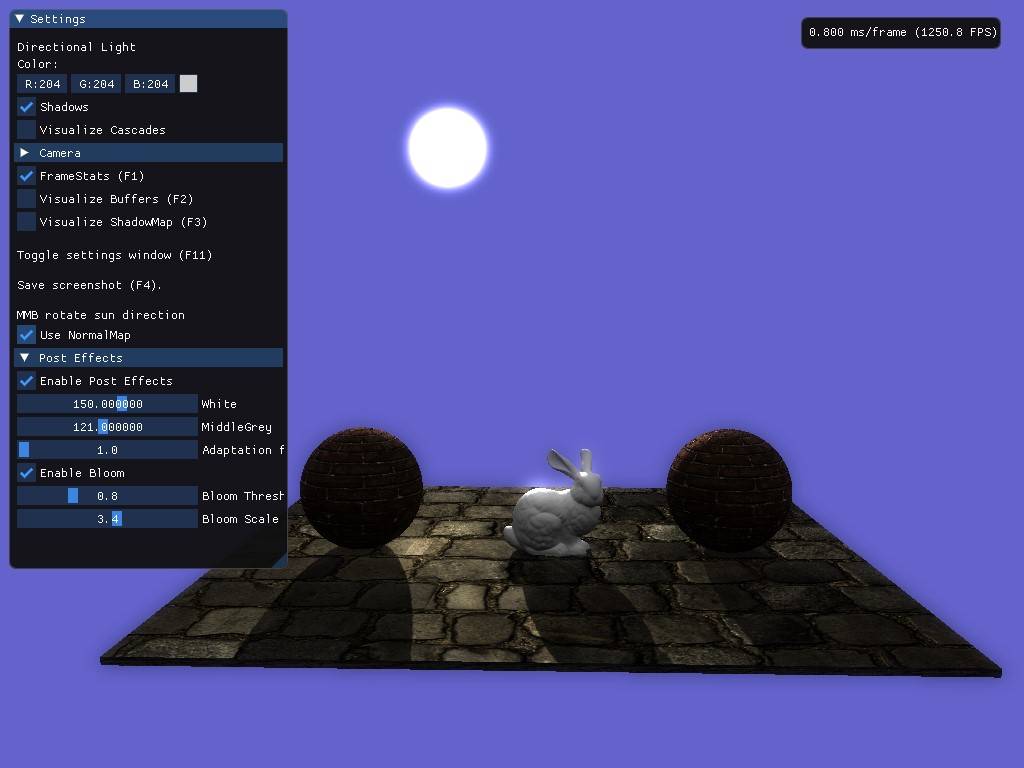
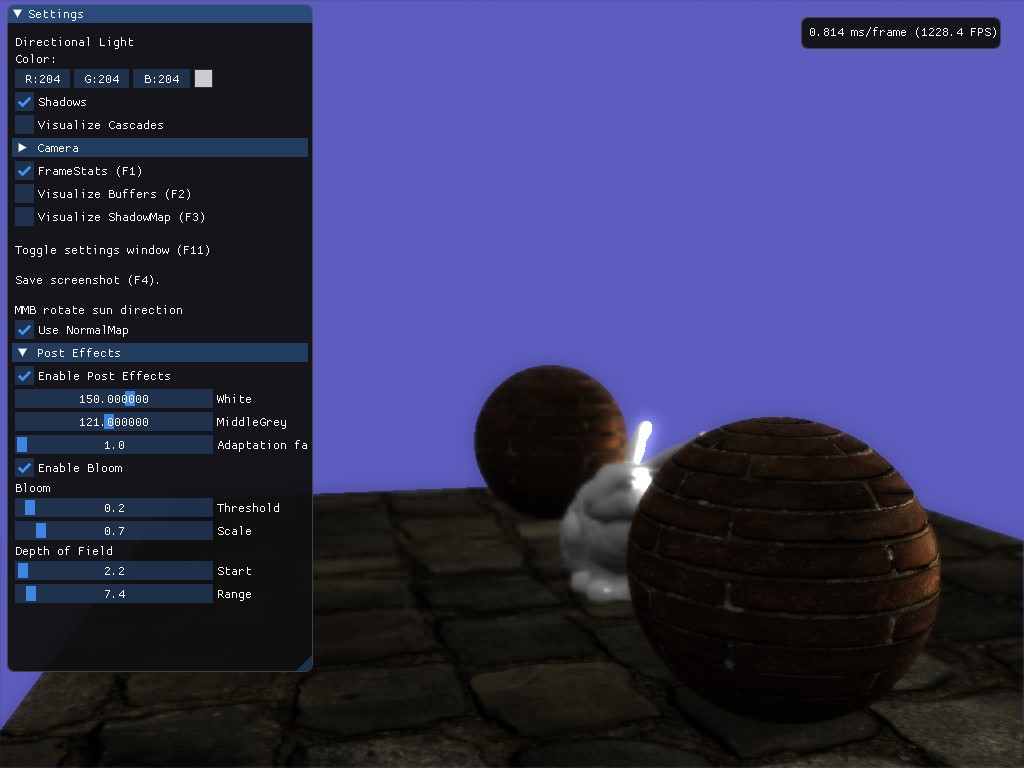
wip picture impl list update

diff --git a/EffectsRendering/EffectsRendering.cpp b/EffectsRendering/EffectsRendering.cpp
@@ -23,21 +23,18 @@ IMPLEMENTED
 	- normal maps,  normal texture
 	- HDR, tonemapping and adaptation
 	- bloom
+	- DoF
 */
 
 
 /// TODO
 /*
-
 	- SSAO - Screen Space Ambient Occlusion
-	- skybox/sphere hdr texture map?
-	- skybox rotation bug
 	- SSR - Screen Space Reflections
 	- fog - Distance Based Fog
 	- sunray
 	- lens flare
 	- Bokeh
-	- DoF  and add to camera gui setting
 	- screenshot name timestamp and save to folder
 */
 
